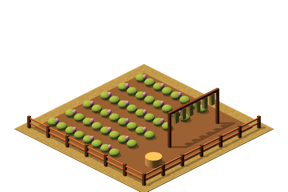
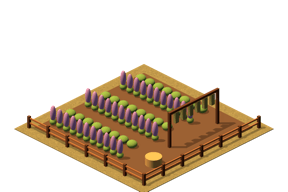
feat(art): grow the herb garden's lavender tall and purple

Changed region(s): [[0.1562, 0.375, 0.6875, 0.8438]]

diff --git a/Tools/IsoKit/Sources/IsoKitCore/Recipes/EventRecipes.swift b/Tools/IsoKit/Sources/IsoKitCore/Recipes/EventRecipes.swift
@@ -176,16 +176,21 @@ extension Recipes {
         }
     }
 
-    /// A low fenced plot of herb rows flecked with lavender, a small drying frame hung with bunches
-    /// and a wicker basket, so it reads neither as a farm nor as a tea garden (canvas, herb garden).
+    /// A low fenced plot of herb rows between tall lavender rows, a small drying frame hung with
+    /// bunches and a wicker basket, so it reads neither as a farm nor as a tea garden (canvas, herb
+    /// garden). The lavender stands tall and purple so the plot never reads as a cabbage field.
     static func herbGarden(_ kit: Builder) {
         kit.ground(SCNVector3(0.6, 0, 0.6), SCNVector3(7.4, 0, 7.4), .paint(Palette.soil))
-        for row in stride(from: CGFloat(1.2), to: 7.0, by: 1.1) {
-            for x in stride(from: CGFloat(1.0), to: 5.4, by: 0.55) {
-                kit.ball(SCNVector3(x, 0.18, row), radius: 0.24, Events.herb, scale: SCNVector3(1, 0.7, 1))
-            }
-            for x in stride(from: CGFloat(1.3), to: 5.4, by: 1.1) {
-                kit.ball(SCNVector3(x, 0.38, row + 0.05), radius: 0.09, Events.lavender, scale: SCNVector3(1, 1.4, 1))
+        for (index, row) in stride(from: CGFloat(1.2), to: 7.0, by: 1.1).enumerated() {
+            if index.isMultiple(of: 2) {
+                for x in stride(from: CGFloat(1.0), to: 5.4, by: 0.55) {
+                    kit.ball(SCNVector3(x, 0.18, row), radius: 0.24, Events.herb, scale: SCNVector3(1, 0.7, 1))
+                }
+            } else {
+                for x in stride(from: CGFloat(1.0), to: 5.4, by: 0.42) {
+                    kit.ball(SCNVector3(x, 0.2, row), radius: 0.16, Events.herb, scale: SCNVector3(1, 0.9, 1))
+                    kit.ball(SCNVector3(x, 0.62, row), radius: 0.15, Events.lavender, scale: SCNVector3(0.9, 2.6, 0.9))
+                }
             }
         }
         kit.fence(from: SCNVector3(0.4, 0, 7.6), to: SCNVector3(7.6, 0, 7.6), height: 0.6)

diff --git a/Resources/Sprites.style/catalog/building-herb-garden.md b/Resources/Sprites.style/catalog/building-herb-garden.md
@@ -8,9 +8,10 @@ leaves it alone.
 
 ## Visual identity
 
-Rendered by IsoKit in the shared light rig. A low fenced plot of herb rows
-flecked with lavender, a small drying frame hung with bunches and a wicker
-basket, so it reads neither as a farm nor as a tea garden. Design canvas:
+Rendered by IsoKit in the shared light rig. A low fenced plot of green herb rows
+between rows of tall purple lavender, a small drying frame hung with bunches
+and a wicker basket, so it reads neither as a farm, a cabbage field nor a tea
+garden. Design canvas:
 https://claude.ai/artifact/NfTHPHsBMu4gKzjgvxYfz5 (Physician board, herb
 garden concept).
 
